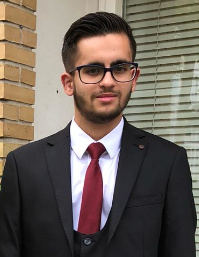
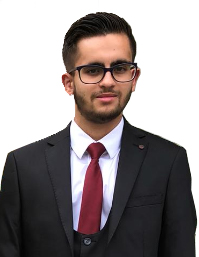
Our team image done FAQ page changed

diff --git a/src/components/faq.vue b/src/components/faq.vue
@@ -1,18 +1,18 @@
 <template>
-<div class="box">
-   <p class="heading">FAQs</p>
+<div class="container box">
+   <h2 class="heading">FAQs</h2>
    <div class="faqs">
       <details>
-         <summary>What is Lorem ipsum?</summary>
-         <p class="text">Lorem ipsum dolor sit amet, consectetur adipiscing elit.</p>
+         <summary class="text-bold">What is Lorem ipsum?</summary>
+         <p class="text mt-4">Lorem ipsum dolor sit amet, consectetur adipiscing elit.</p>
       </details>
       <details>
          <summary>What is Lorem ipsum?</summary>
-         <p class="text">Lorem ipsum dolor sit amet, consectetur adipiscing elit.</p>
+         <p class="text mt-4">Lorem ipsum dolor sit amet, consectetur adipiscing elit.</p>
       </details>
       <details>
          <summary>What is Lorem ipsum?</summary>
-         <p class="text">Lorem ipsum dolor sit amet, consectetur adipiscing elit.</p>
+         <p class="text mt-4">Lorem ipsum dolor sit amet, consectetur adipiscing elit.</p>
       </details>
    </div>
 </div>
@@ -22,7 +22,7 @@
 export default {
 	data() {
 		return {
-			title: 'Faq'
+         title: 'Faq'
 		}
 	},
 	head: {
@@ -36,21 +36,16 @@ export default {
 </script>
 
 <style scope> 
-     @import url('https://fonts.googleapis.com/css?family=Rubik&display=swap');
+@import url('https://fonts.googleapis.com/css?family=Rubik&display=swap');
 
-body{
-   background: #f6f6f6;
-}
-
-.box{
-   width: 320px;
-   margin: 100px auto;
+.box {
+   margin: 0px auto;
    background: #fff;
    border-radius: 7px;
    box-shadow: 1px 2px 4px rgba(0,0,0,.3);
 }
 
-.box .heading{
+.heading {
    background: #7800CF;
    border-radius: 7px 7px 0px 0px;
    padding: 10px;
@@ -82,5 +77,4 @@ details{
 details summary{
    outline: none;
 }
-
 </style>

diff --git a/src/components/chatBot/Bot.vue b/src/components/chatBot/Bot.vue
@@ -9,7 +9,9 @@
             </div>
         </div>
         <div class="row mt-4">
-            <input id="userBox" class="inputChat" type="text" @keyup.enter="talk()" v-model="msg" required>
+            <div class="col">
+                <input id="userBox" class="inputChat" type="text" @keyup.enter="talk()" v-model="msg" required>
+            </div>
             <input type="submit" class="btn btn-primary mt-2 ml-2" @click="talk()">
         </div>
     </div>
@@ -39,7 +41,7 @@ export default {
     },
     methods: {
         talk() {
-            var user = this.msg
+            var user = this.msg;
             document.getElementById('chatLog').innerHTML += user + '<br>';
             if (user != '') {
                 if (user in this.know) {
@@ -50,9 +52,10 @@ export default {
             } else {
                 alert('Type text in');
             }
+            window.scrollTo(0, 500);
             this.msg = '';
             console.log(this.msg);
-        } 
+        }
     }
 }
 </script>

diff --git a/src/components/Index.vue b/src/components/Index.vue
@@ -42,7 +42,7 @@
 				</div>	
 				<div class="col">
 					<div class="card float-left" style="width: 18rem;">
-						<img src="" class="card-img-top teamImg">
+						<img src="@/assets/images/stefan.png" class="card-img-top teamImg2">
 						<div class="card-body">
 							<h5 class="card-title text-center">Stefan Mokhamsing</h5>
 							<p class="card-text text-center mt-4">Frontend developer</p>
@@ -188,6 +188,12 @@ body {
 
 .teamImg {
 	width: 200px;
+	margin: auto;
+	margin-top: 10px;
+}
+
+.teamImg2 {
+	width: 207px;
 	margin: auto;
 	margin-top: 10px;
 }

diff --git a/src/App.vue b/src/App.vue
@@ -30,6 +30,7 @@
           <li v-if="!isLoggedIn" class="nav-item"><router-link :to="{ name: 'Login' }" class="nav-link">Login</router-link></li>
 
           <li v-if="!isLoggedIn" class="nav-item"><router-link :to="{ name: 'Bot' }" class="nav-link">Chat bot</router-link></li>
+          <li v-if="!isLoggedIn" class="nav-item"><router-link :to="{ name: 'faq' }" class="nav-link">FAQ</router-link></li>
         </ul>
       </div>
     </nav>
